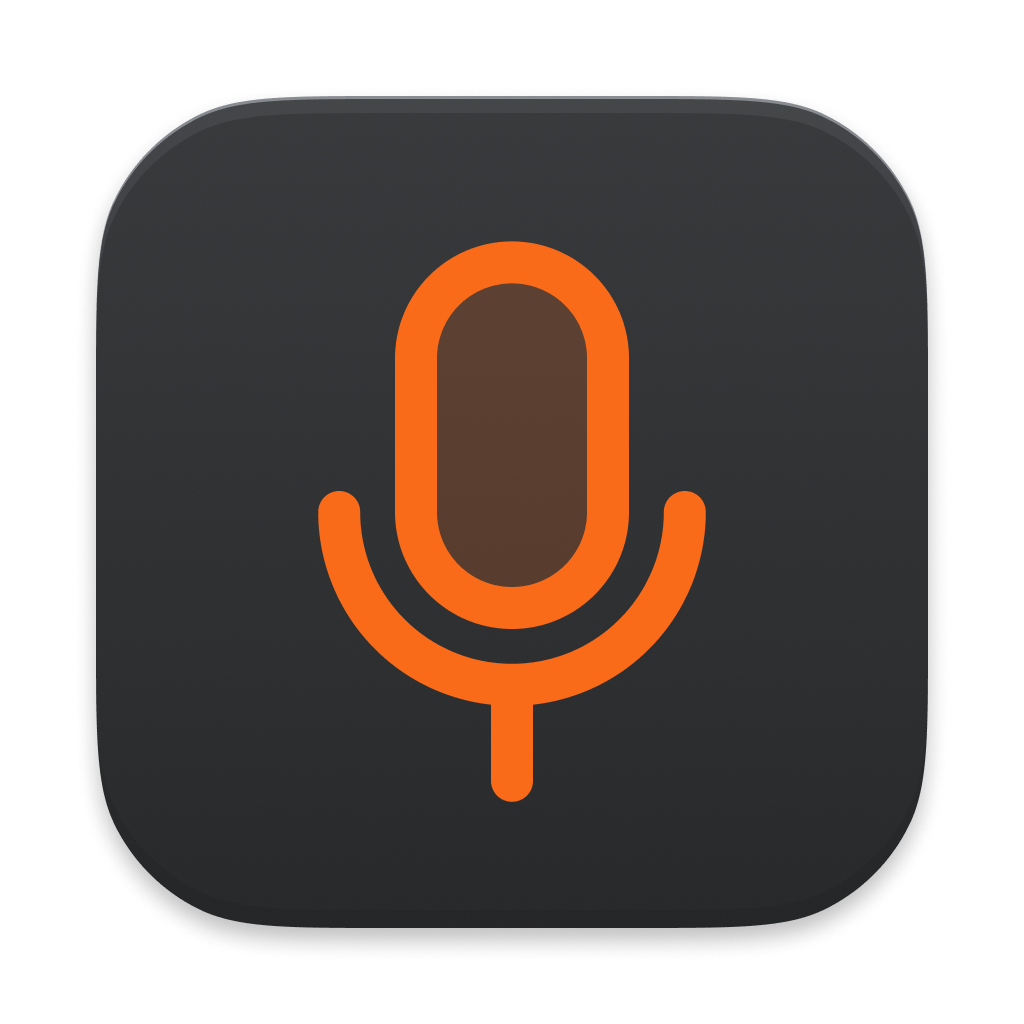
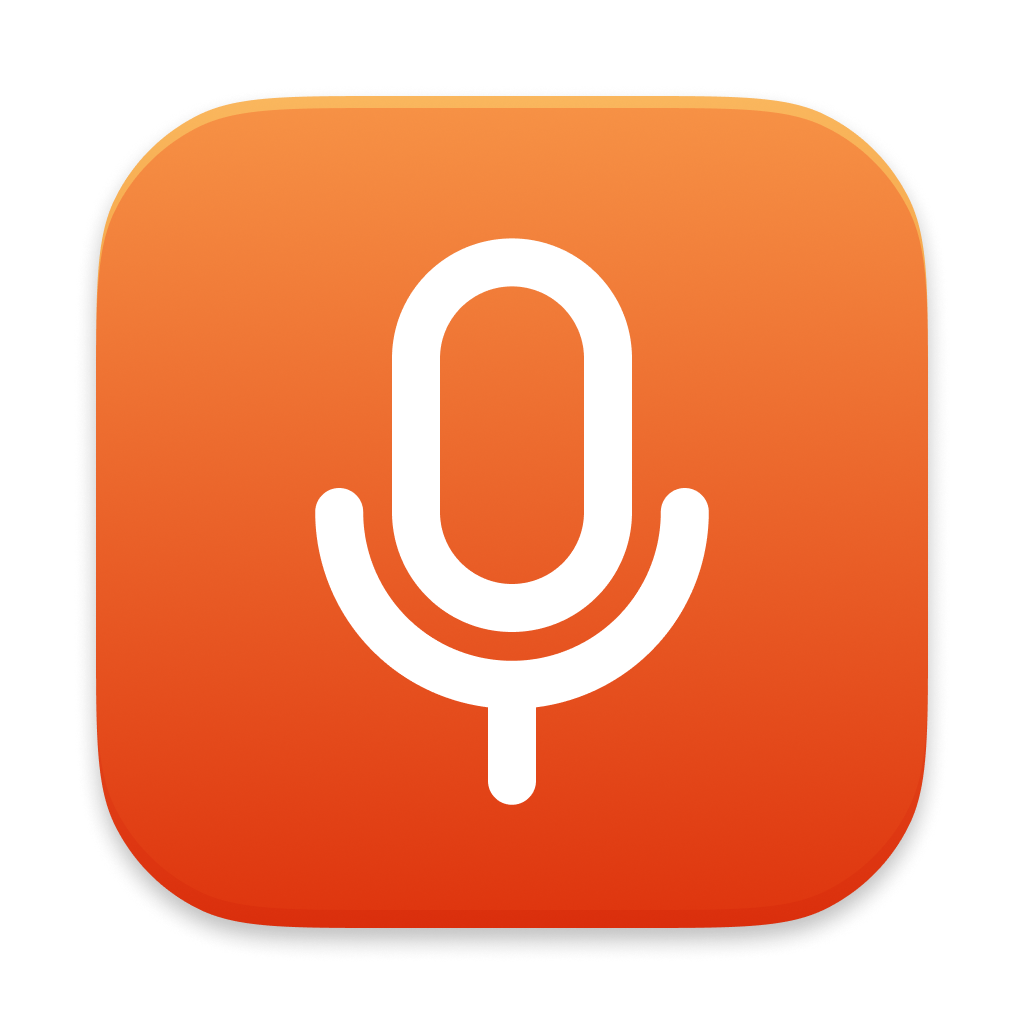
Remove build instructions and author info from README

diff --git a/README.md b/README.md
@@ -22,18 +22,6 @@ curl -fsSL https://raw.githubusercontent.com/vladstudio/loudmic/main/install.sh 
 - Optional start-on-login
 - Auto-update from GitHub releases
 
-## Build from source
-
-```sh
-./build.sh
-```
-
-Depends on the sibling [MacAppKit](../app-kit) package.
-
-## Author
-
-[Vlad Gerasimov](https://vlad.studio) -- [loudmic.vlad.studio](https://apps.vlad.studio/loudmic)
-
-## License
+#### License
 
 MIT -- see [LICENSE](LICENSE).